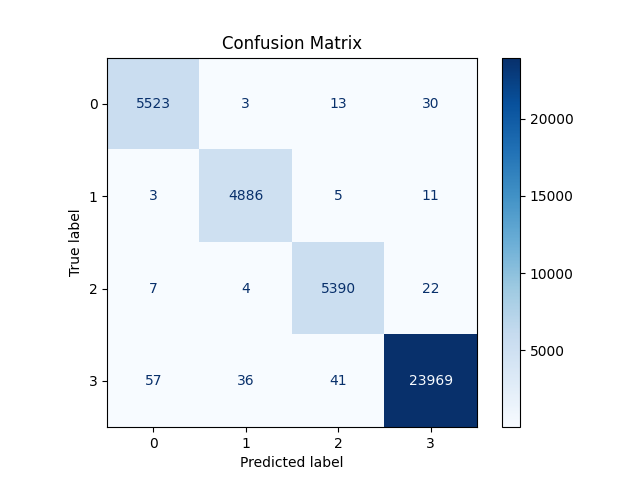
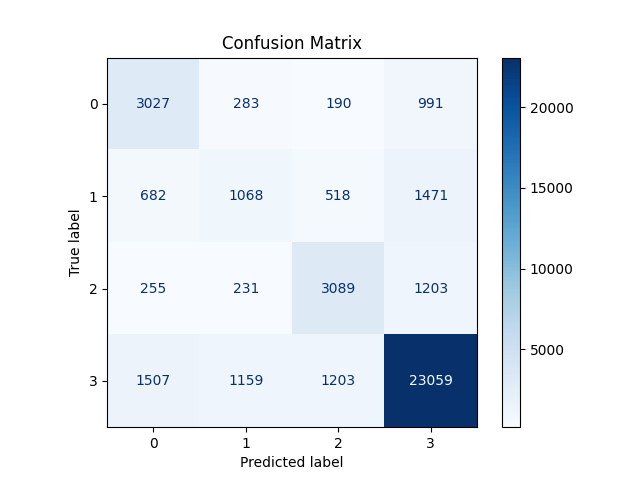
freeze backbone

diff --git a/model.py b/model.py
@@ -16,9 +16,9 @@ class PhoBERTMultiHead(nn.Module):
         for param in self.phobert.parameters():
             param.requires_grad = False
 
-        # unfreeze 1 last layers of PhoBERT
-        for param in self.phobert.encoder.layer[-2:].parameters():
-            param.requires_grad = True
+        # # unfreeze 2 last layers of PhoBERT
+        # for param in self.phobert.encoder.layer[-2:].parameters():
+        #     param.requires_grad = True
 
         hidden_size = self.phobert.config.hidden_size
         self.attentions = nn.ModuleList(
@@ -39,7 +39,7 @@ class PhoBERTMultiHead(nn.Module):
             input_ids=input_ids, attention_mask=attention_mask
         )
 
-        hidden = outputs.last_hidden_state  # (B, T, H)
+        hidden = outputs.last_hidden_state  # (B, T, H) e.g. [64, 10, 768]
 
         logits = []
 
@@ -62,6 +62,7 @@ class PhoBERTMultiHead(nn.Module):
             aspect_embedding = self.norm(aspect_embedding)
             aspect_embedding = self.dropout(aspect_embedding)
 
+            # list of (B, num_sentiments)
             logits.append(classifier(aspect_embedding))
 
         logits = torch.stack(logits, dim=1)
